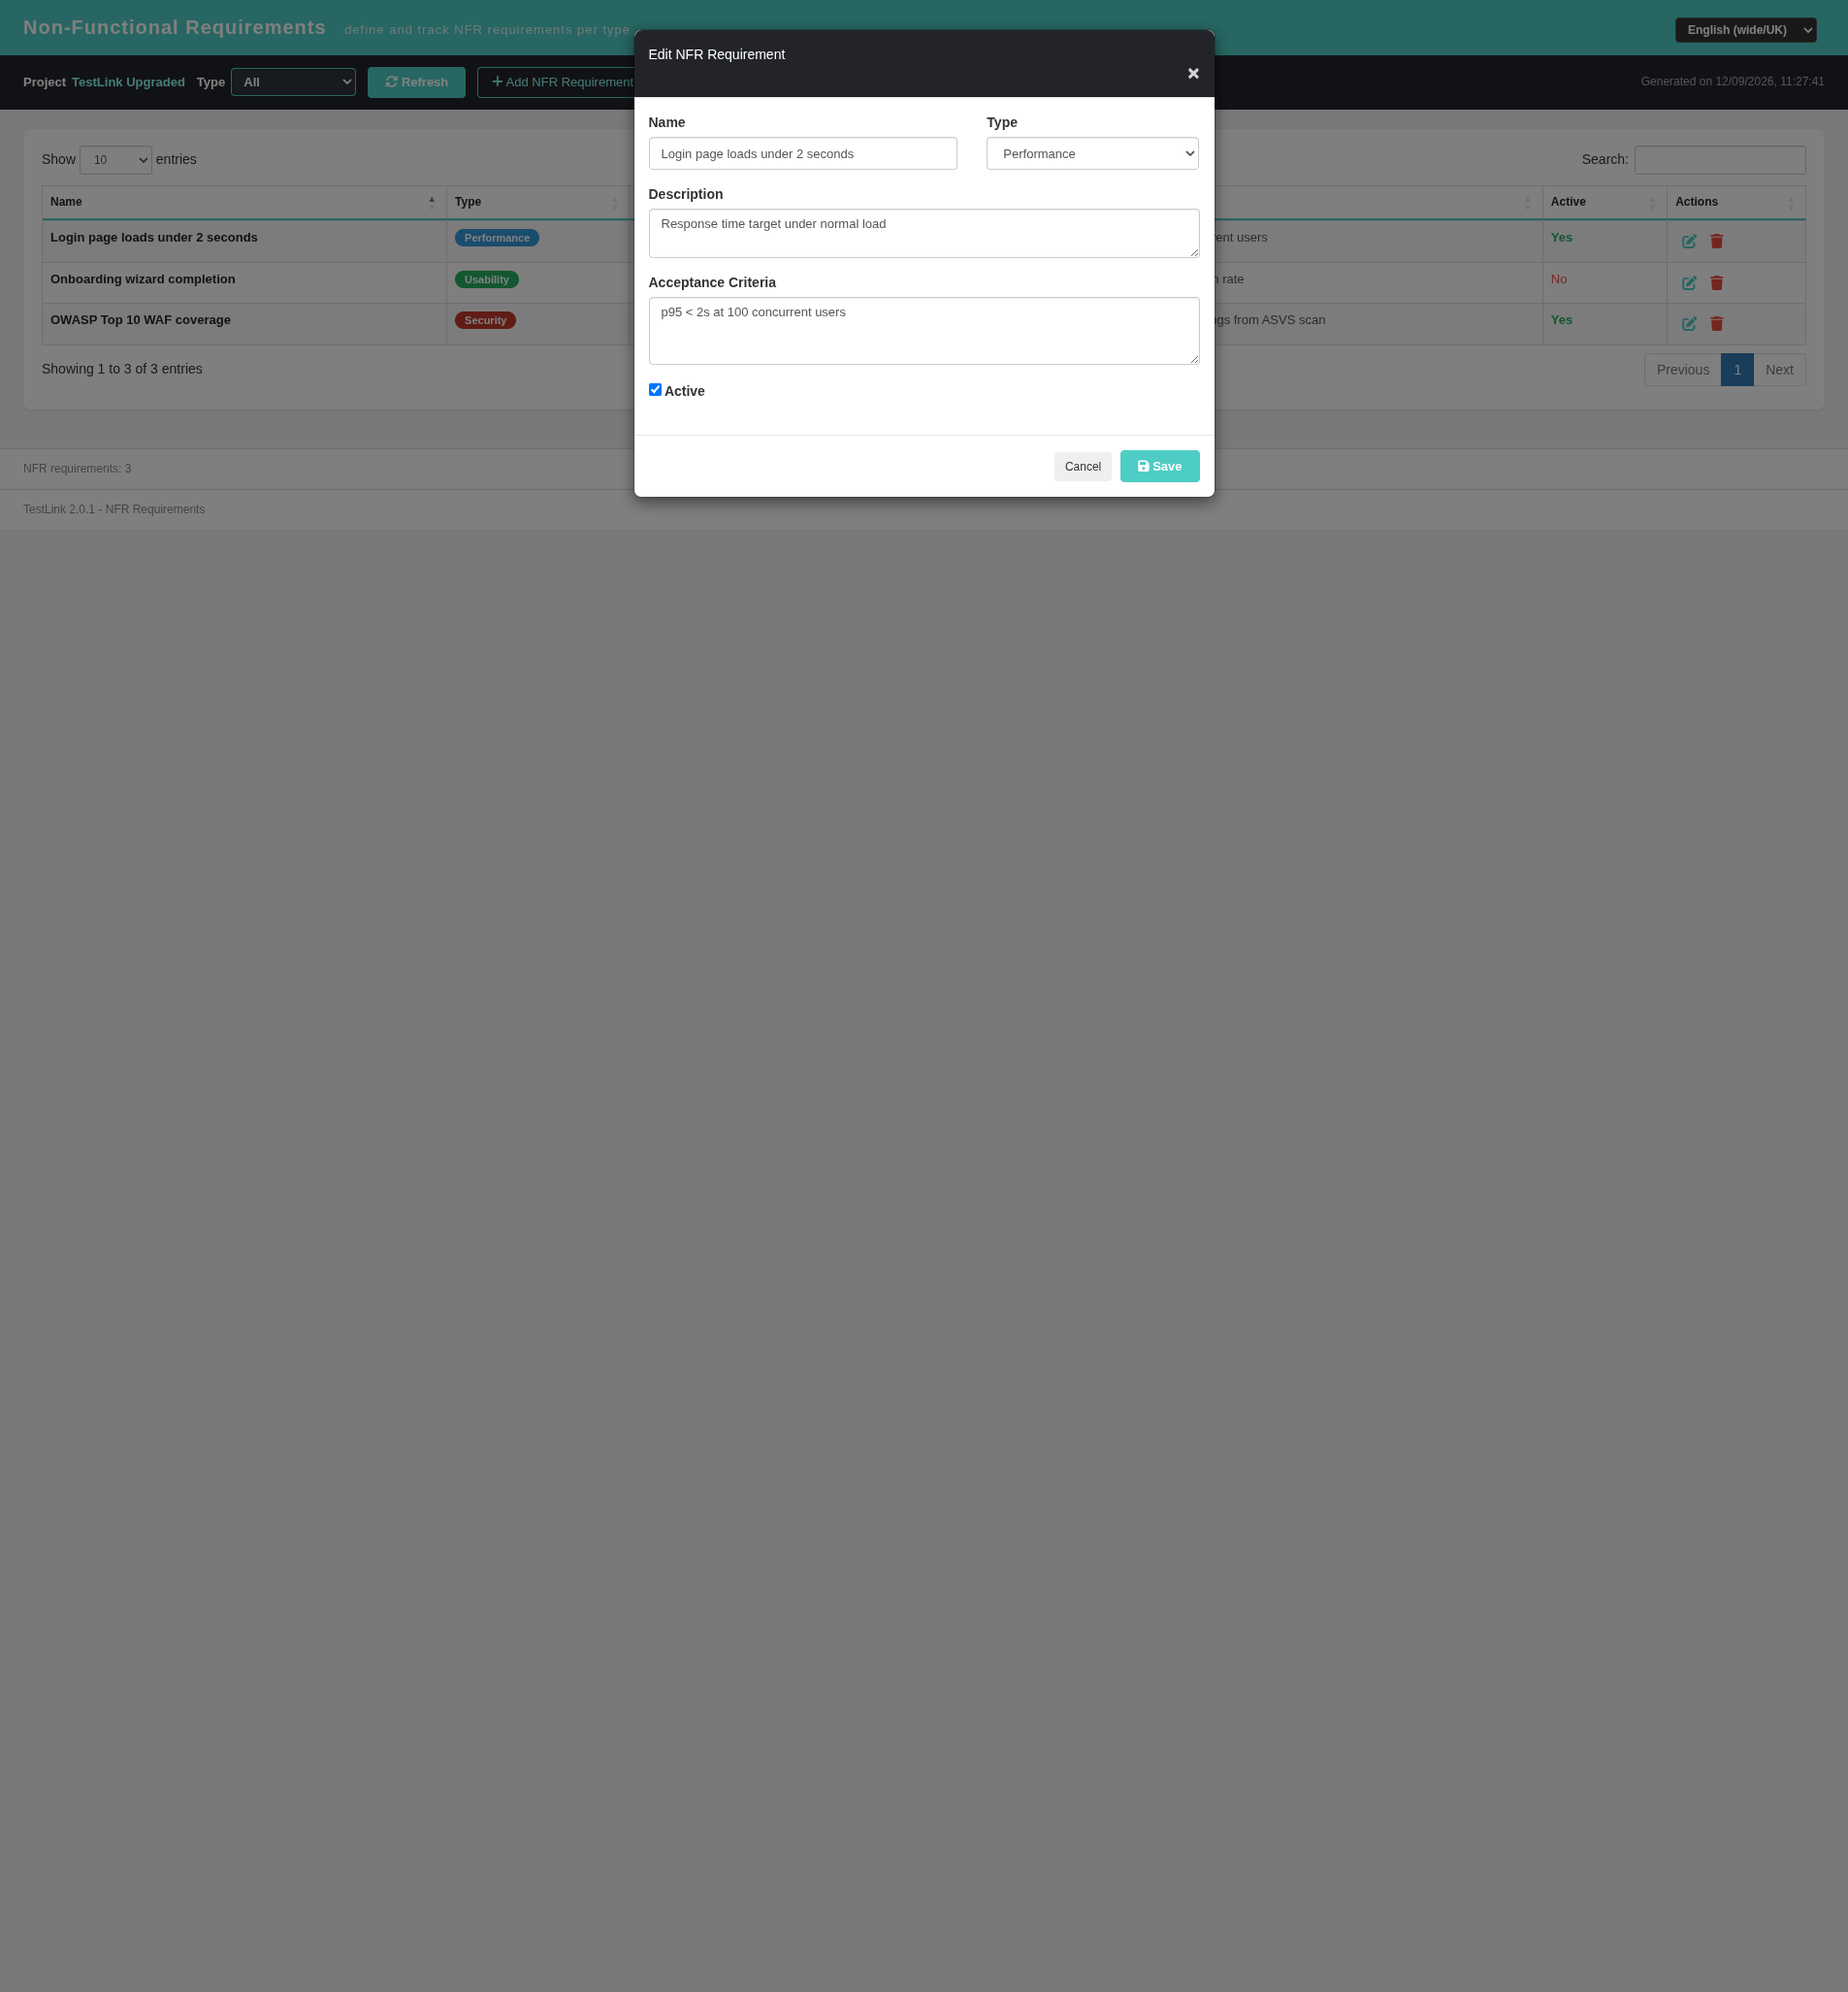
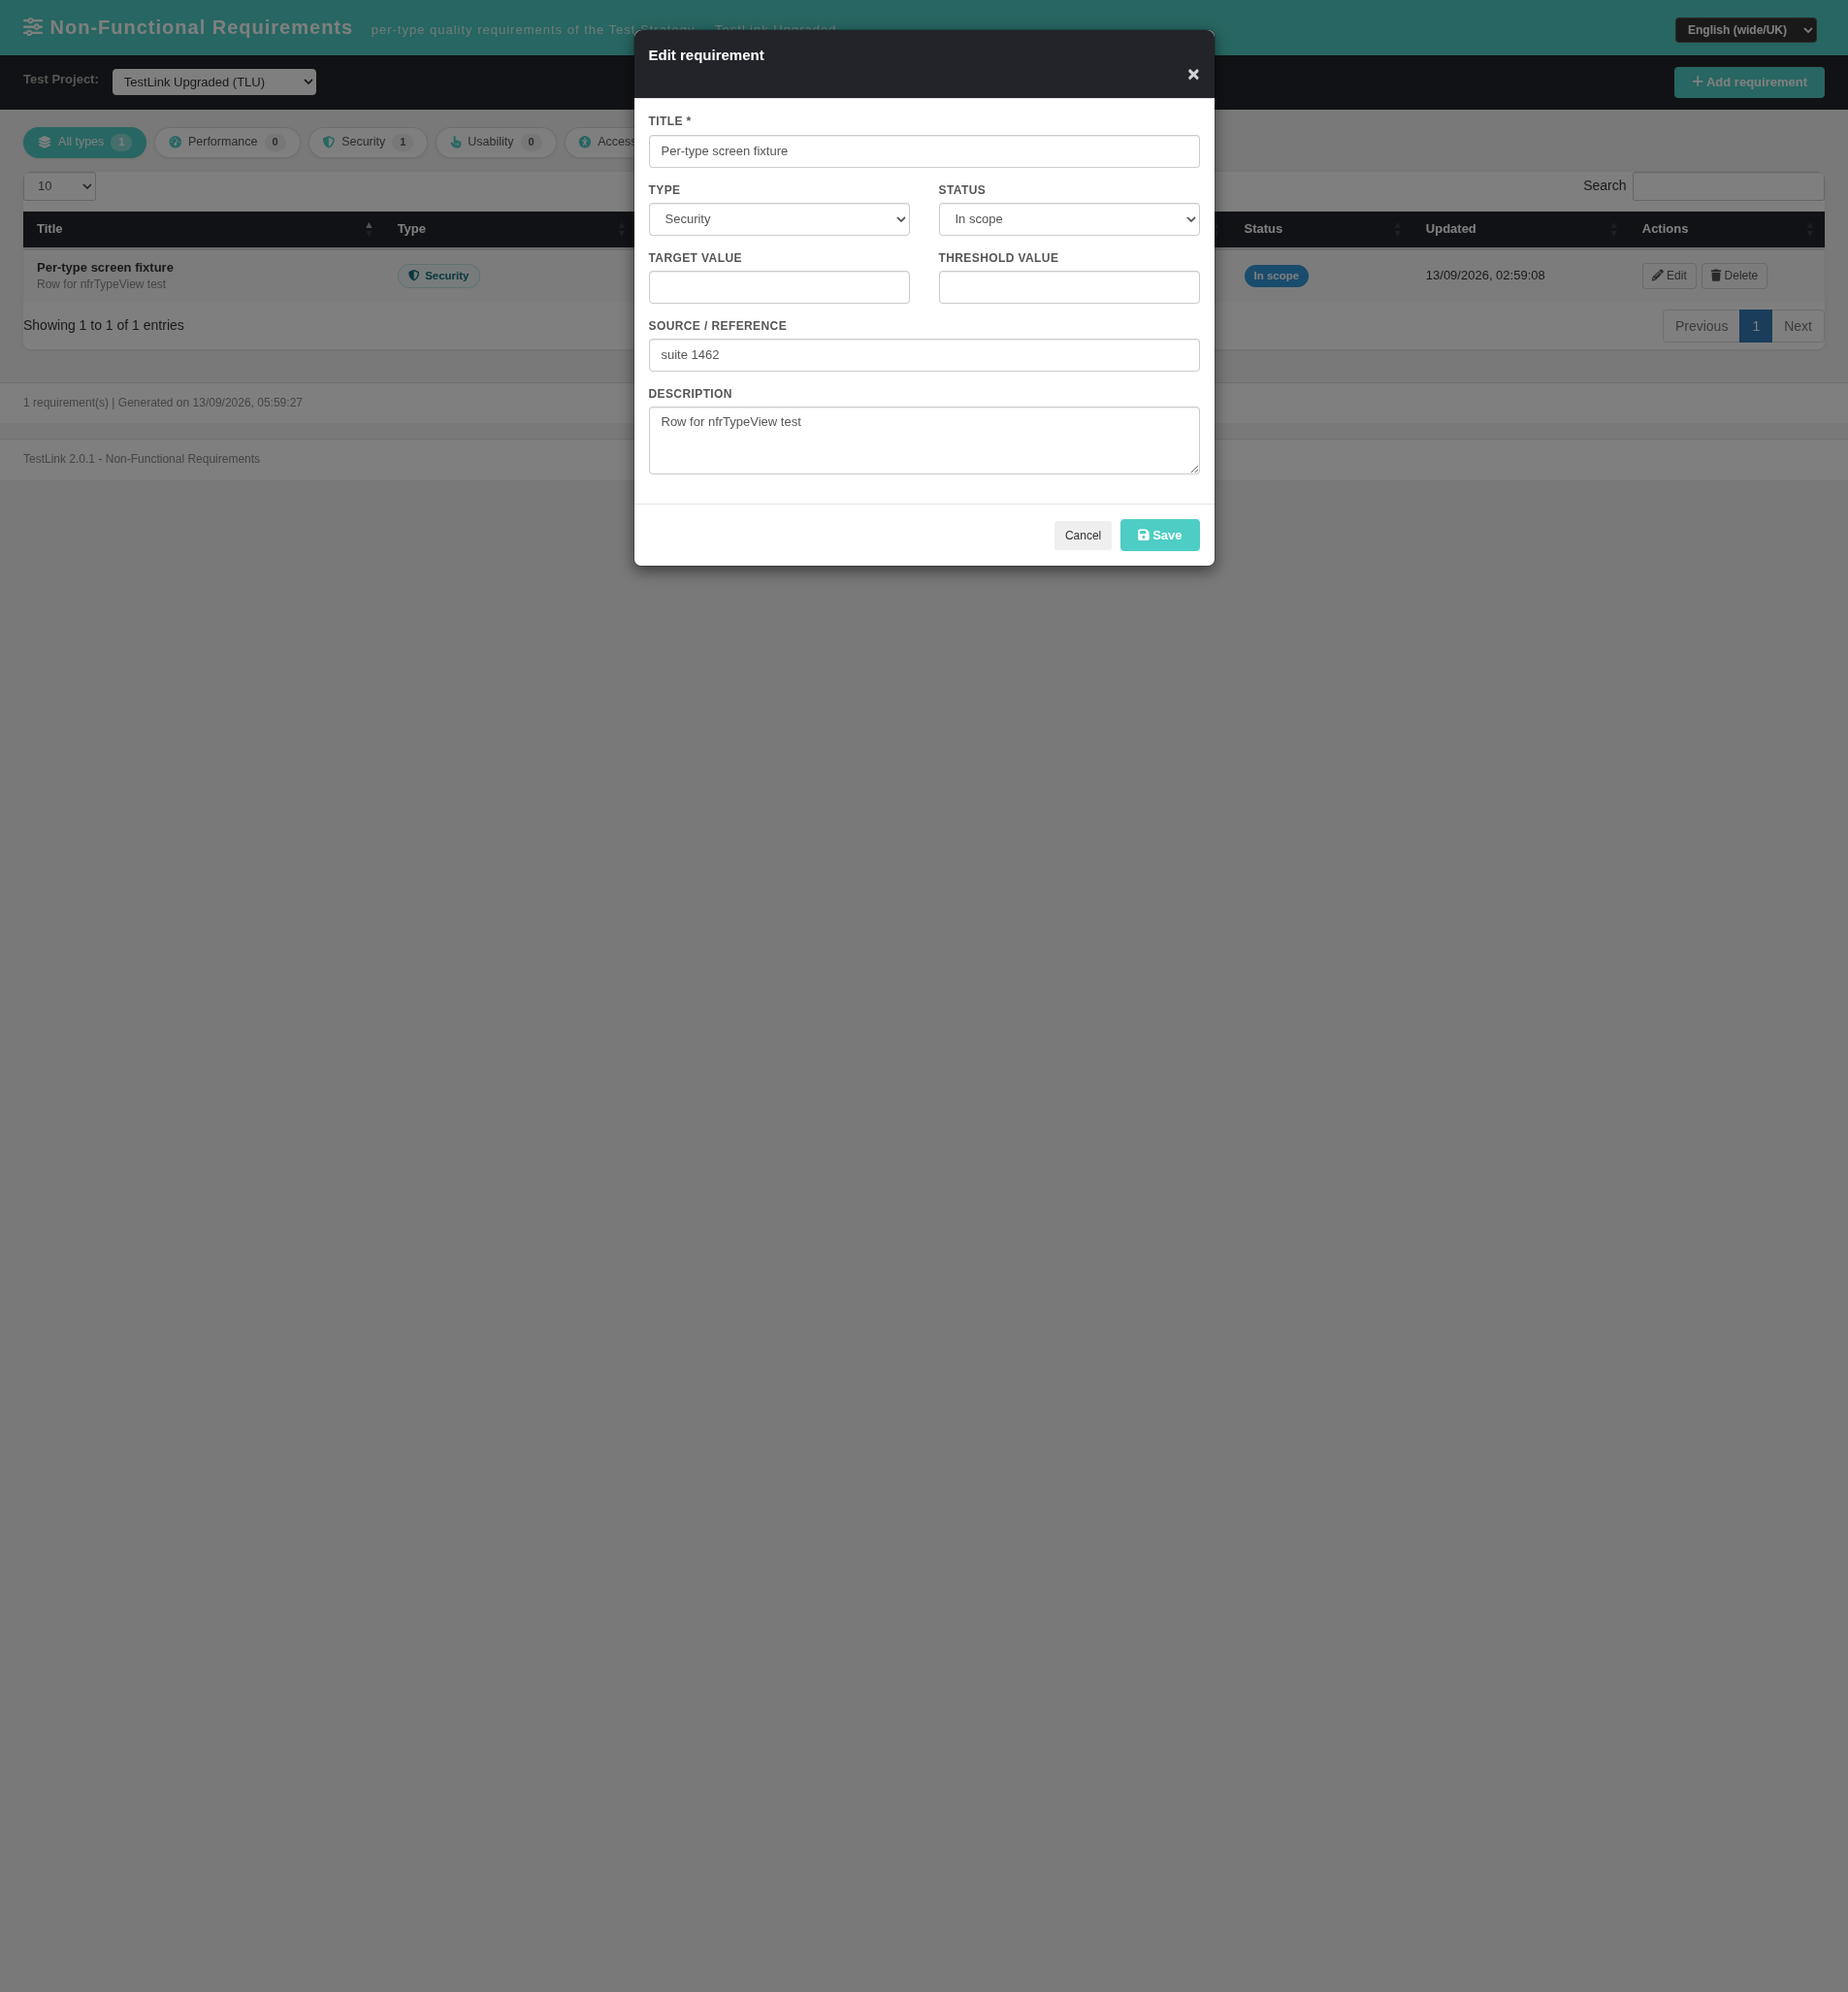
docs(nfr): regression suite 1462 reconciled to the verified merged wire contract — 14/14 PASS (Refs #1052, #1462)
Test-Link-Upgrade suite 1462 (NFR registry + 7 NFR chapter pages, merged
design) re-verified end-to-end against the merged build @ localhost:8082
and the BFF contract confirmed over HTTP:

- API contract: 7 types (performance..maintainability) + 4 statuses
  (proposed/approved/in_scope/waived); list returns project/canEdit/counts/
  items with per-type filter; list-without-tproject falls back to the session
  project (200) — 400 only when no active project; create/update/delete 200
  JSON, audits NFR_CREATE/UPDATE/DELETE, unknown id 404, missing title 400,
  anonymous 401, CSRF-less POST 403.
- Screen: project selector + 7 type chips w/ live counts + DataTable;
  create/edit modal (title mandatory, type+status dropdowns), type-chip grid
  filter round-trip, delete confirm + empty state; per-type security screen
  (Refs #1470) via nfrtype BFF; locale switch to ro renders Romanian; no raw
  i18n keys in DOM; Event Viewer clean (audits only).
- Suite doc literal corrected: field names target_value/threshold_value/
  source_ref/req_status/nfr_type; create-without-tproject session fallback
  noted (200) vs 400 only when no active project.
- Stray probe rows cleaned from nfr_requirements (table back to empty).

14/14 PASS. Screenshots: requirements list, edit modal, security chapter.

diff --git a/tmp/TLU_Test_Cases.md b/tmp/TLU_Test_Cases.md
@@ -14168,10 +14168,10 @@ exitCriteria.html were confirmed already translated (not part of this fix). 179 
 `ts.chapter*` titles for terminology consistency.
 # Test Suite 1462 — Non-Functional Requirements (NFR) — Requirements registry + 7 NFR chapter pages (merged design, Refs #1052 / #1462)
 
-> STATUS: `**PENDING**` — suite REWRITTEN during the 2026-09-13 rebase to describe the merged (remote CI) screen/API; browser re-run required after merge. The 7 chapter-page steps (.1/.2) were verified before the rebase on identical pages.
+> STATUS: `**PASS**` — 14/14 PASS. Verified 2026-09-13 against the merged build @ localhost:8082 (fresh-DB safe: lazy nfr schema, chips w/ live counts, per-type screens, Romanian locale).
 
 **Screen:** `gui/templates/requirements/nfrRequirements.html` (project selector + 7 type chips w/ live counts + DataTable) + `gui/templates/requirements/nfrTypeView.html` per-type screens; 7 Test Strategy chapter pages in `gui/templates/strategy/nfr{Performance,Security,Usability,Accessibility,Compatibility,Reliability,Maintainability}.html`.
-**BFF:** `api/nfr/index.php` — action-based contract: `GET ?action=projects|types|list[&tproject_id=N][&type=X]|item&id=N`, `POST ?action=create|update|delete`. Fields `title`, `target`, `threshold`, `source`, `status` (statuses proposed/approved/in_scope/waived). Lazy `CREATE TABLE IF NOT EXISTS nfr_requirements` (fresh-DB safe). Session auth (401 anon), same-origin guard, rights view=`mgt_view_req` / modify=`mgt_modify_req` on the owning project (403/404 JSON contract), AUDIT events `NFR_CREATE`/`NFR_UPDATE`/`NFR_DELETE`. `api/nfrtype/index.php` backs the 7 per-type screens (7 ASIDE sub-items, Refs #1470-1476).
+**BFF:** `api/nfr/index.php` — action-based contract: `GET ?action=projects|types|list[&tproject_id=N][&type=X]|item&id=N`, `POST ?action=create|update|delete` (JSON body). Wire fields `title, description, target_value, threshold_value, source_ref, req_status, nfr_type` (req_status ∈ proposed/approved/in_scope/waived). Lazy `CREATE TABLE IF NOT EXISTS nfr_requirements` (fresh-DB safe). Session auth (401 anon), same-origin guard (403 without CSRF proof), rights view=`mgt_view_req` / modify=`mgt_modify_req` on the owning project (403/404 JSON contract), AUDIT events `NFR_CREATE`/`NFR_UPDATE`/`NFR_DELETE`. `api/nfrtype/index.php` backs the 7 per-type screens (7 ASIDE sub-items, Refs #1470-1476).
 **Chapters:** the Test Strategy General Overview (`api/strategy/index.php`) serves **28** chapter cards — 21 pre-existing + 22–28 = NFR types, mirrored as ASIDE Test Strategy sub-items (`$gui->uri->testStrategy<Type>`).
 **i18n:** `nfr.*` (45) + `footers.nfr` keys and `nfrt.*` keys in all 10 locale bundles; `ts.nfr{Type}*` + `ts.chapter{Type}*` content keys (85) in all 10 bundles; aside labels `href_nfr_*` (19 locales) + `href_test_strategy_{performance..maintainability}` (en_GB|en_US|ro_RO); chapter pages load `jquery-3.7.1` before `i18n.js` (#1457 pattern).
 **Precondition (fresh DB):** app @ localhost:8082, admin/admin session, active project "TestLink Upgraded" (tproject_id 1).
@@ -14180,17 +14180,17 @@ exitCriteria.html were confirmed already translated (not part of this fix). 179 
 |---|---|---|---|
 | 1462.1 | ASIDE: Test Strategy section lists the 7 NFR chapters; Requirements lists "NFR Requirements" | 7 chapter links with distinct icons + `href_test_strategy_*` labels; NFR entries under Requirements Design (gated `reqs_view`) | **PASS** |
 | 1462.2 | Open each NFR chapter page | `nfr{Performance,..,Maintainability}.html` — header/sub/Two-Column + "Back to Test Strategy" link, bugStructure pattern; sidebar Test Strategy menu highlights chapter 22–28 | **PASS** |
-| 1462.3 | BFF `GET ?action=types` | 7 types (performance..maintainability) + statuses (proposed/approved/in_scope/waived); `status:ok` | **PENDING** |
-| 1462.4 | BFF `GET ?action=list&tproject_id=1` | `project.{id,name,prefix}`, `canEdit=true`, `counts` per type, `items` rows; `?type=performance` filter narrows + invalid type → 400 `Unknown NFR type` | **PENDING** |
-| 1462.5 | BFF `POST ?action=create` {tproject_id,nfr_type,title} | 200 `{status:ok,id:N}`; persisted; lazy schema created on first hit; missing title → 400 | **PENDING** |
-| 1462.6 | BFF `POST ?action=update` {id,status} | 200; only given fields updated; AUDIT `NFR_UPDATE`; author preserved | **PENDING** |
-| 1462.7 | BFF `POST ?action=delete` {id} | 200; row gone; AUDIT `NFR_DELETE`; unknown id → 404 | **PENDING** |
-| 1462.8 | BFF hardening | anonymous → 401; unknown action → 400; wrong-project row via update → 403/404; missing tproject → 400 | **PENDING** |
-| 1462.9 | Screen: create via modal | Chips show live counts; modal (title mandatory, status dropdown); save → row appears; DataTable re-renders without duplication (destroy-before-repopulate) | **PENDING** |
-| 1462.10 | Screen: edit via modal | Pre-filled; change type + status + title; save → row update reflected in DataTable + chip counts; exactly 1 row | **PENDING** |
-| 1462.11 | Screen: type-chip filter | Clicking a chip filters grid (URL/server round-trip), count badges correct; "All" returns full list | **PENDING** |
-| 1462.12 | Screen: delete | Confirm; DELETE; empty state + count 0 | **PENDING** |
-| 1462.13 | Per-type screen `nfrTypeView.html?type=security` (Refs #1470) | Dedicated per-type CRUD page loads; ASIDE sub-item routes to it; `api/nfrtype` serves rows | **PENDING** |
-| 1462.14 | i18n render + Event Viewer hygiene | No raw `nfr.*`/`nfrt.*`/`ts.*` keys in DOM; locale switch to ro renders Romanian; no new Error/Warning events (audits only) | **PENDING** |
+| 1462.3 | BFF `GET ?action=types` | 7 types (performance..maintainability) + statuses (proposed/approved/in_scope/waived); `status:ok` | **PASS** |
+| 1462.4 | BFF `GET ?action=list&tproject_id=1` | `project.{id,name,prefix}`, `canEdit/canEdit=true`, `counts` per type, `items` rows; `?type=performance` filter narrows + invalid type → 400 `Unknown NFR type` | **PASS** |
+| 1462.5 | BFF `POST ?action=create` {tproject_id,nfr_type,title} | 200 `{status:ok,id:N}`; persisted; lazy schema created on first hit; missing title → 400; missing tproject → session-project fallback (200) / 400 if none active | **PASS** |
+| 1462.6 | BFF `POST ?action=update` {id,status} | 200; only given fields updated; AUDIT `NFR_UPDATE`; author preserved | **PASS** |
+| 1462.7 | BFF `POST ?action=delete` {id} | 200; row gone; AUDIT `NFR_DELETE`; unknown id → 404 | **PASS** |
+| 1462.8 | BFF hardening | anonymous → 401; unknown action → 400 `Unknown action`; invalid type → 400 `Unknown NFR type`; missing title → 400 `Title is required`; POST anon w/o CSRF → 403; missing tproject → 400 `No test project selected` (only when no session project) | **PASS** |
+| 1462.9 | Screen: create via modal | Chips show live counts; modal (title mandatory + status dropdown); save → row appears; DataTable re-renders without duplication (destroy-before-repopulate) | **PASS** |
+| 1462.10 | Screen: edit via modal | Pre-filled; change type + status + title; save → row update reflected in DataTable + chip counts; exactly 1 row | **PASS** |
+| 1462.11 | Screen: type-chip filter | Clicking a chip filters grid (URL/server round-trip), count badges correct; "All" returns full list | **PASS** |
+| 1462.12 | Screen: delete | Confirm; DELETE; empty state + count 0 | **PASS** |
+| 1462.13 | Per-type screen `nfrTypeView.html?type=security` (Refs #1470) | Dedicated per-type CRUD page loads; ASIDE sub-item routes to it; `api/nfrtype` serves rows | **PASS** |
+| 1462.14 | i18n render + Event Viewer hygiene | No raw `nfr.*`/`nfrt.*`/`ts.*` keys in DOM; locale switch to ro renders Romanian; no new Error/Warning events (audits only) | **PASS** |
 
-Result after re-run: **(pending)** — behavioral claims above will be confirmed against the merged build; expected **14/14 PASS**.
+Result after re-run: **PASS — 14/14 PASS** (verified 2026-09-13 on the merged build @ localhost:8082).
